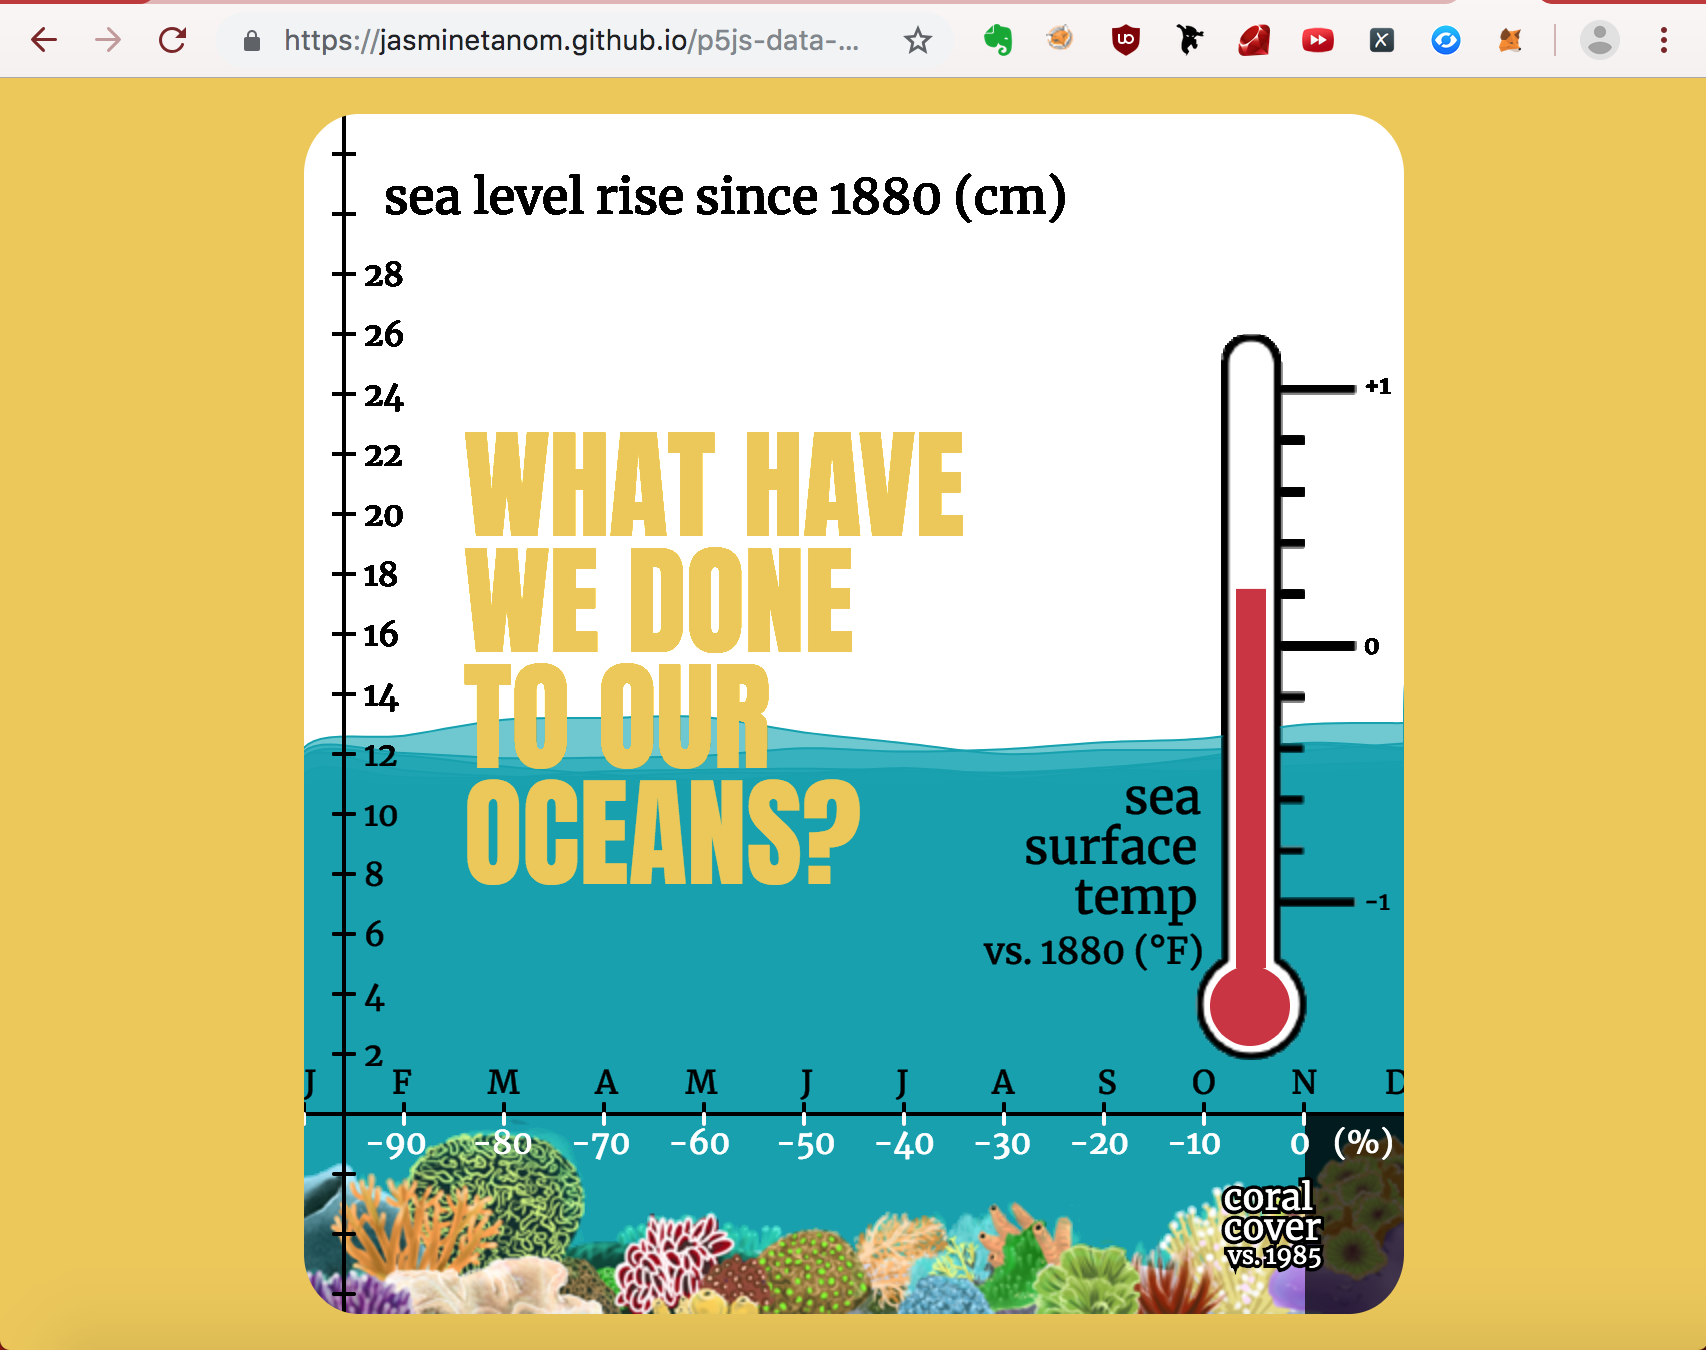
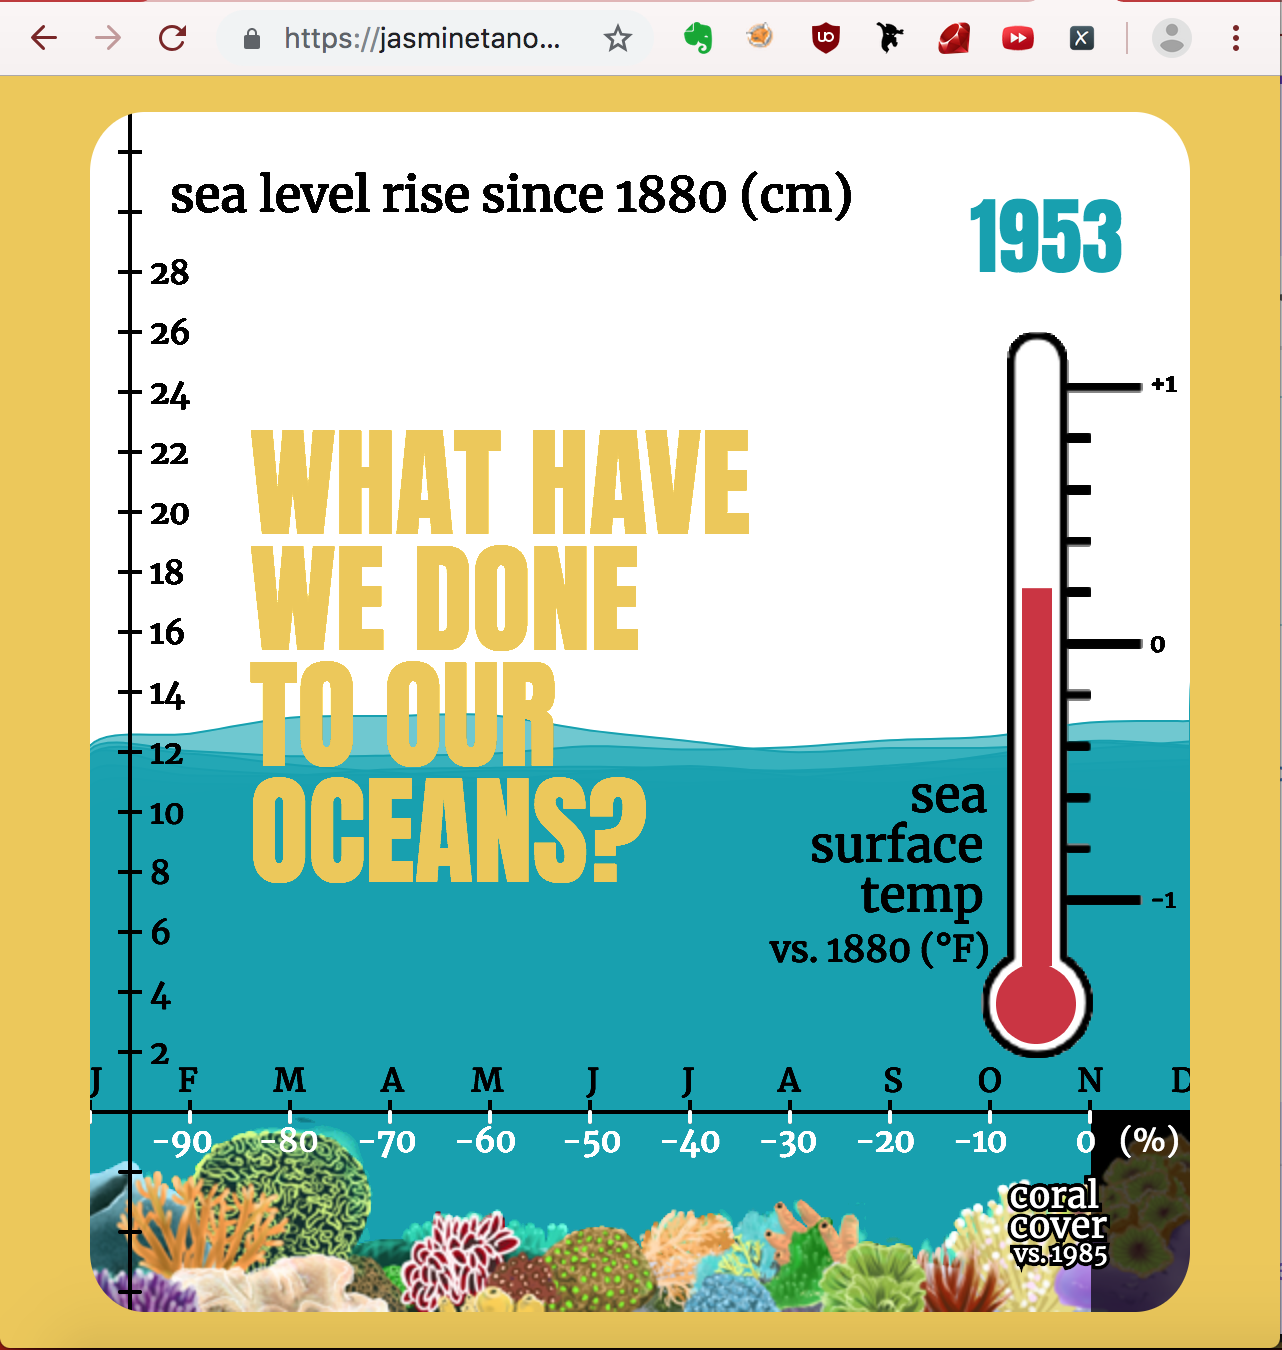
change oceans photo and add proj 5

diff --git a/projects/project-5.md b/projects/project-5.md
@@ -1,0 +1,14 @@
+---
+layout: project
+type: project
+image: "images/oceans-extended.png"
+title: Oceans
+permalink: projects/oceans-extended
+# All dates must be YYYY-MM-DD format!
+date: 2019-04-04
+labels:
+  - Duke Interactive Graphics
+summary: Final project (an extension of "Oceans", the data visualization piece) for my Interactive Graphics class, made using p5.js.
+---
+
+[Here's a link to a draft of the piece.](https://jasminetanom.github.io/oceans/)
